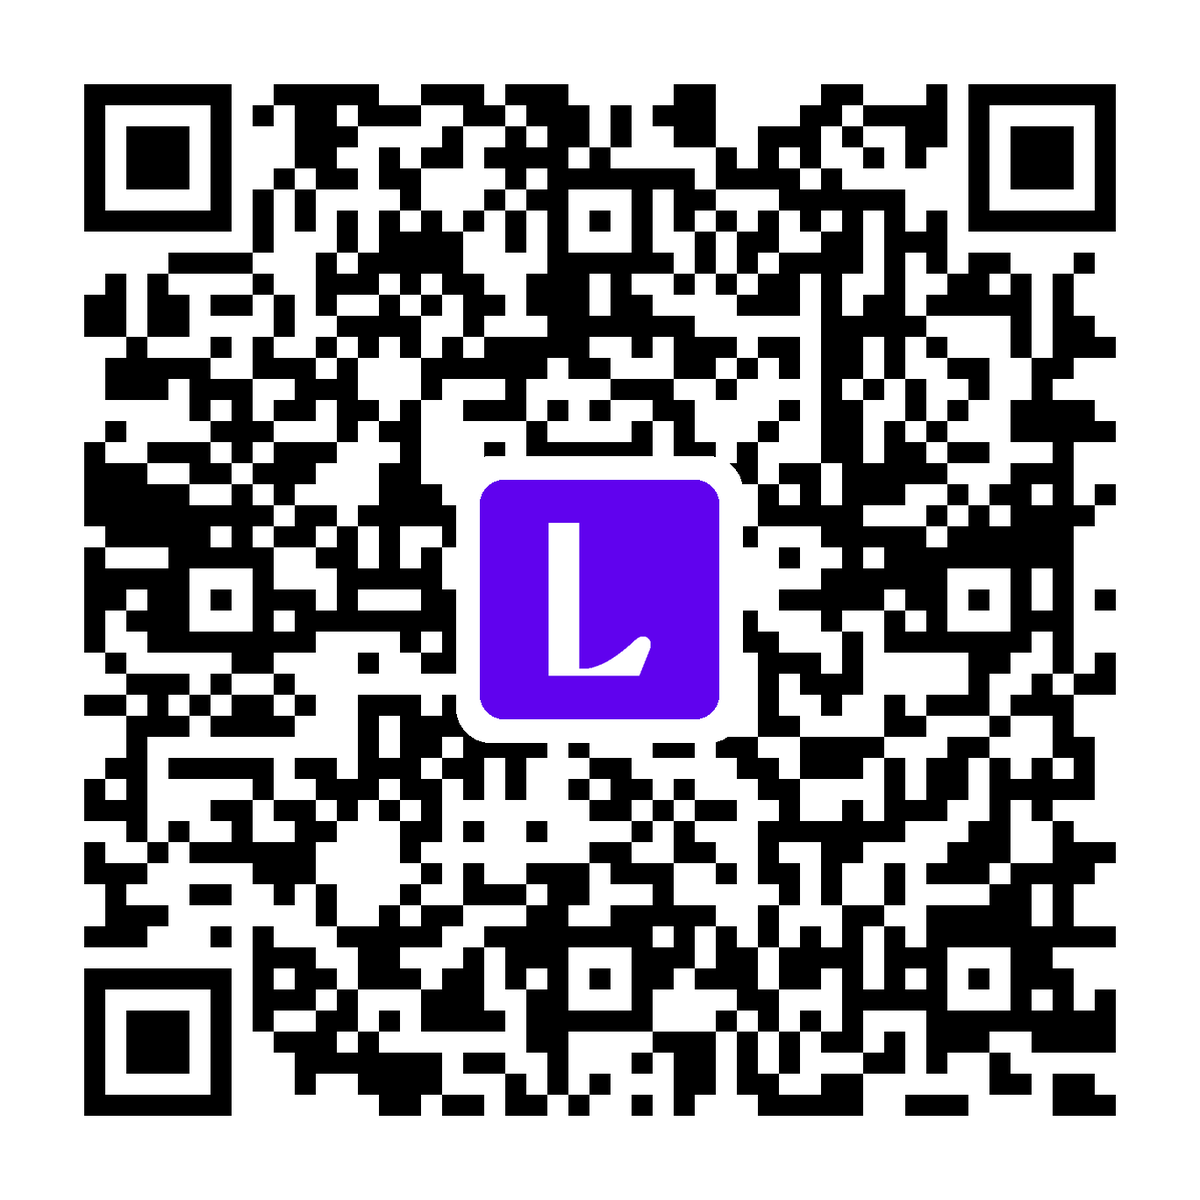
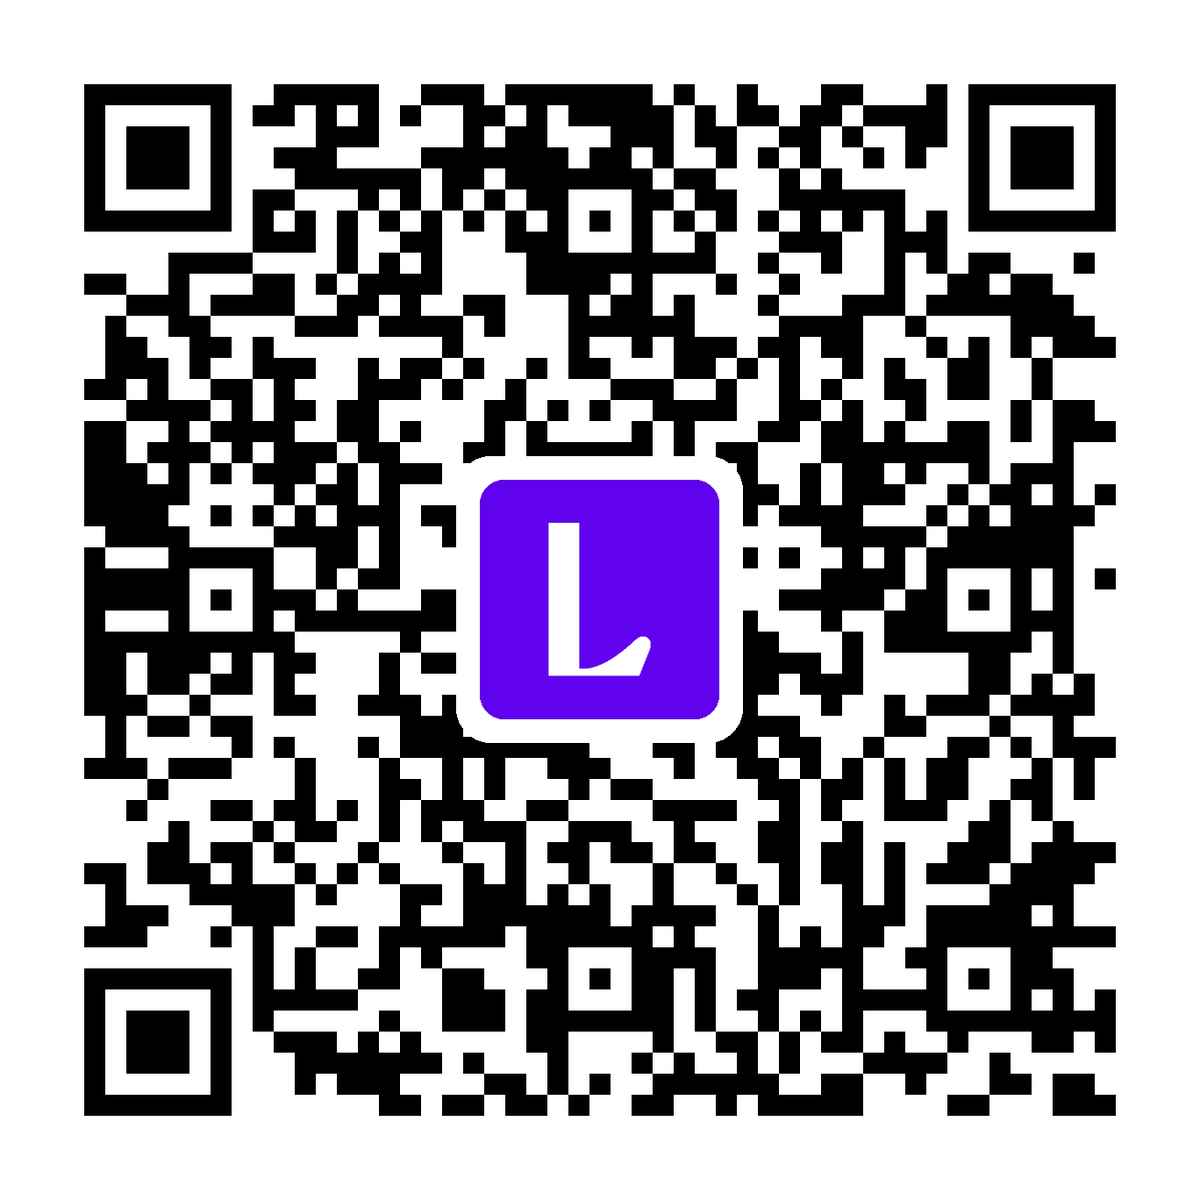
In-house QR scan tracker: qr_scans table + admin panel card
The printed codes now encode utm_campaign=flyer (the square business
flyer). When a scan lands, the new site-wide lokali-qr-tracker.js writes
one anonymous row to qr_scans (sessionStorage-deduped, keepalive REST —
same fire-and-forget pattern as page_views). Stats surface in the
Lokali admin panel on /account as a 'QR code scans' card: today / 7d /
30d / all-time tiles plus a per-placement breakdown, fed by the new
is_admin()-gated admin_qr_scans() RPC (its own RPC on purpose —
admin_overview() stays untouched, see 2026-08-16 exit-survey incident).

sql/patch_qr_scans.sql must be run once in the Supabase SQL editor;
until then every new piece no-ops cleanly. No PII stored: campaign,
landing path, referrer, device class, timestamp. RLS is insert-only
for the public — reads happen only through the admin RPC.

Claude-Session: https://claude.ai/code/session_01EFWfqkbCHbWNdD9S2SULmr

diff --git a/scripts/lokali-qr-tracker.js b/scripts/lokali-qr-tracker.js
@@ -1,0 +1,81 @@
+/*
+ * lokali-qr-tracker.js — counts visits that arrive from a printed QR code.
+ * ---------------------------------------------------------------------------
+ * Load SITE-WIDE (Webflow project settings → custom code → footer), like the
+ * other lokali scripts, via jsDelivr. No dependencies — it does NOT wait for
+ * lokali-supabase-client.js, because a QR visitor lands cold and the count
+ * should be recorded even if the visitor bounces before the app boots.
+ *
+ * HOW IT WORKS
+ *   The printed codes encode:  /?utm_source=qr&utm_medium=print&utm_campaign=<placement>
+ *   (assets/golokali-qr-*.png → campaign 'flyer', the square business flyer).
+ *   When a page loads with utm_source=qr, one row goes into `qr_scans`
+ *   (sql/patch_qr_scans.sql) via an anonymous keepalive REST insert — the
+ *   same fire-and-forget pattern as page_views/lead_events in
+ *   lokali-api-adapter.js. sessionStorage dedupes, so navigating around the
+ *   site after scanning counts once, not per page.
+ *
+ *   Stats surface in the admin panel on /account ("QR code scans" card,
+ *   lokali-account.js → admin_qr_scans() RPC). The GA4 utm tags still work
+ *   as before — this is the in-house count.
+ *
+ * PRIVACY: campaign, landing path, referrer, mobile/desktop, timestamp.
+ * Nothing identifying; the table is write-only from the browser (RLS).
+ * ---------------------------------------------------------------------------
+ */
+(function () {
+  'use strict';
+
+  // Same public config as lokali-supabase-client.js (safe in the browser —
+  // RLS is the gate), duplicated here so this file stands alone.
+  var SUPABASE_URL =
+    (typeof window !== 'undefined' && window.LOKALI_SUPABASE_URL) ||
+    'https://api.golokali.com';
+  var SUPABASE_KEY =
+    (typeof window !== 'undefined' && window.LOKALI_SUPABASE_PUBLISHABLE_KEY) ||
+    'sb_publishable_--wRW6DD_9ZCBqfb0kJUww_0lzfzs39';
+
+  var params;
+  try { params = new URLSearchParams(window.location.search); } catch (e) { return; }
+  if (params.get('utm_source') !== 'qr') return;
+
+  // One scan = one visit: dedupe across the browsing session so clicking
+  // around after landing doesn't inflate the count. If sessionStorage is
+  // unavailable (rare privacy modes) we still record — the landing itself
+  // only fires once per scan anyway, since in-site links carry no utm tags.
+  var DEDUPE_KEY = 'lok_qr_scan_logged';
+  try {
+    if (window.sessionStorage.getItem(DEDUPE_KEY)) return;
+    window.sessionStorage.setItem(DEDUPE_KEY, '1');
+  } catch (e) {}
+
+  var clip = function (v, max) {
+    if (!v) return null;
+    v = String(v);
+    return v.length > max ? v.slice(0, max) : v;
+  };
+
+  var row = {
+    campaign: clip(params.get('utm_campaign'), 60) || 'unknown',
+    medium:   clip(params.get('utm_medium'), 60),
+    landing:  clip(window.location.pathname, 200) || '/',
+    referrer: clip(document.referrer, 300),
+    device:   /Mobi|Android|iPhone|iPad|iPod/i.test(navigator.userAgent) ? 'mobile' : 'desktop'
+  };
+
+  // keepalive: survives an immediate navigation away (same reasoning as
+  // keepaliveInsert in lokali-api-adapter.js). Anonymous on purpose.
+  try {
+    fetch(SUPABASE_URL + '/rest/v1/qr_scans', {
+      method: 'POST',
+      headers: {
+        'Content-Type': 'application/json',
+        apikey: SUPABASE_KEY,
+        Authorization: 'Bearer ' + SUPABASE_KEY,
+        Prefer: 'return=minimal'
+      },
+      keepalive: true,
+      body: JSON.stringify(row)
+    }).catch(function () {});
+  } catch (e) {}
+})();

diff --git a/scripts/lokali-account.js b/scripts/lokali-account.js
@@ -945,6 +945,7 @@
     appendSpotlightSection(wrap, ov);
     appendSpotlightCreativesSection(wrap);
     appendExitSurveySection(wrap, ov);
+    appendQrScansSection(wrap);
     return wrap;
   }
 
@@ -1147,6 +1148,61 @@
       row.appendChild(meta);
       wrap.appendChild(row);
     });
+  }
+
+  // ── QR code scans (sql/patch_qr_scans.sql) ─────────────────
+  // Scans of the printed codes (assets/golokali-qr-*.png — the square business
+  // flyer first). lokali-qr-tracker.js records a row when a visitor lands with
+  // utm_source=qr; this reads the is_admin()-gated admin_qr_scans() RPC.
+  // Deliberately its OWN RPC + self-fetching section (same shape as
+  // appendSpotlightCreativesSection): admin_overview() stays untouched.
+  function appendQrScansSection(wrap) {
+    var API = window.LokaliSupabaseAPI && window.LokaliSupabaseAPI.admin;
+    if (!API || typeof API.qrScans !== 'function') return; // stale client cache: no-op
+    var host = el('div');
+    wrap.appendChild(host);
+
+    API.qrScans().then(function (res) {
+      var d = (res && res.data) || {};
+      if (d.ok !== true) return;                  // not admin / patch not run yet
+
+      var t = el('div', 'lk-admin-qtitle');
+      t.style.marginTop = '18px';
+      t.appendChild(document.createTextNode('QR code scans'));
+      t.appendChild(el('span', 'lk-admin-qcount', String(d.last_30d != null ? d.last_30d : 0)));
+      host.appendChild(t);
+      host.appendChild(el('p', 'lk-admin-sub',
+        'Visits from your printed QR codes — counted once per visit when someone scans and lands on the site. The badge is the last 30 days.'));
+
+      var stats = el('div', 'lk-admin-stats');
+      [[d.today, 'Today'], [d.last_7d, 'Last 7 days'],
+       [d.last_30d, 'Last 30 days'], [d.total, 'All time']].forEach(function (s) {
+        var tile = el('div', 'lk-admin-stat');
+        tile.appendChild(el('div', 'lk-admin-stat-num', esc(String(s[0] != null ? s[0] : '—'))));
+        tile.appendChild(el('div', 'lk-admin-stat-lbl', esc(s[1])));
+        stats.appendChild(tile);
+      });
+      host.appendChild(stats);
+
+      var camps = Array.isArray(d.campaigns) ? d.campaigns : [];
+      if (!camps.length) {
+        host.appendChild(el('div', 'lk-admin-empty',
+          'No scans yet — the first flyer scan lands here.'));
+        return;
+      }
+      camps.forEach(function (c) {
+        var row = el('div', 'lk-admin-row');
+        var meta = el('div', 'lk-admin-row-meta');
+        var l1 = el('div', 'lk-admin-row-l1');
+        l1.textContent = c.campaign === 'flyer' ? 'Square business flyer' : (c.campaign || 'unknown');
+        var l2 = el('div', 'lk-admin-row-l2');
+        l2.textContent = String(c.total || 0) + ' total · ' + String(c.last_30d || 0) + ' in 30d' +
+          (c.last_scan ? ' · last ' + fmtSpotDay(c.last_scan) : '');
+        meta.appendChild(l1); meta.appendChild(l2);
+        row.appendChild(meta);
+        host.appendChild(row);
+      });
+    }).catch(function () {});
   }
 
   function appendSpotlightSection(wrap, ov) {

diff --git a/scripts/lokali-supabase-client.js b/scripts/lokali-supabase-client.js
@@ -1335,6 +1335,13 @@
     admin: {
       overview: function () {
         return withClient(function (c) { return c.rpc('admin_overview'); });
+      },
+      // Printed-QR scan stats (sql/patch_qr_scans.sql). Its OWN RPC, not more
+      // keys on admin_overview — redefining that function is how the exit-
+      // survey section went blank in production (2026-08-16). is_admin()-gated
+      // server-side; non-admins get { ok:false, reason:'not_admin' }.
+      qrScans: function () {
+        return withClient(function (c) { return c.rpc('admin_qr_scans'); });
       }
     },
     // #96-SUGGEST — subcategory taxonomy + the vendor suggestion pipeline.
